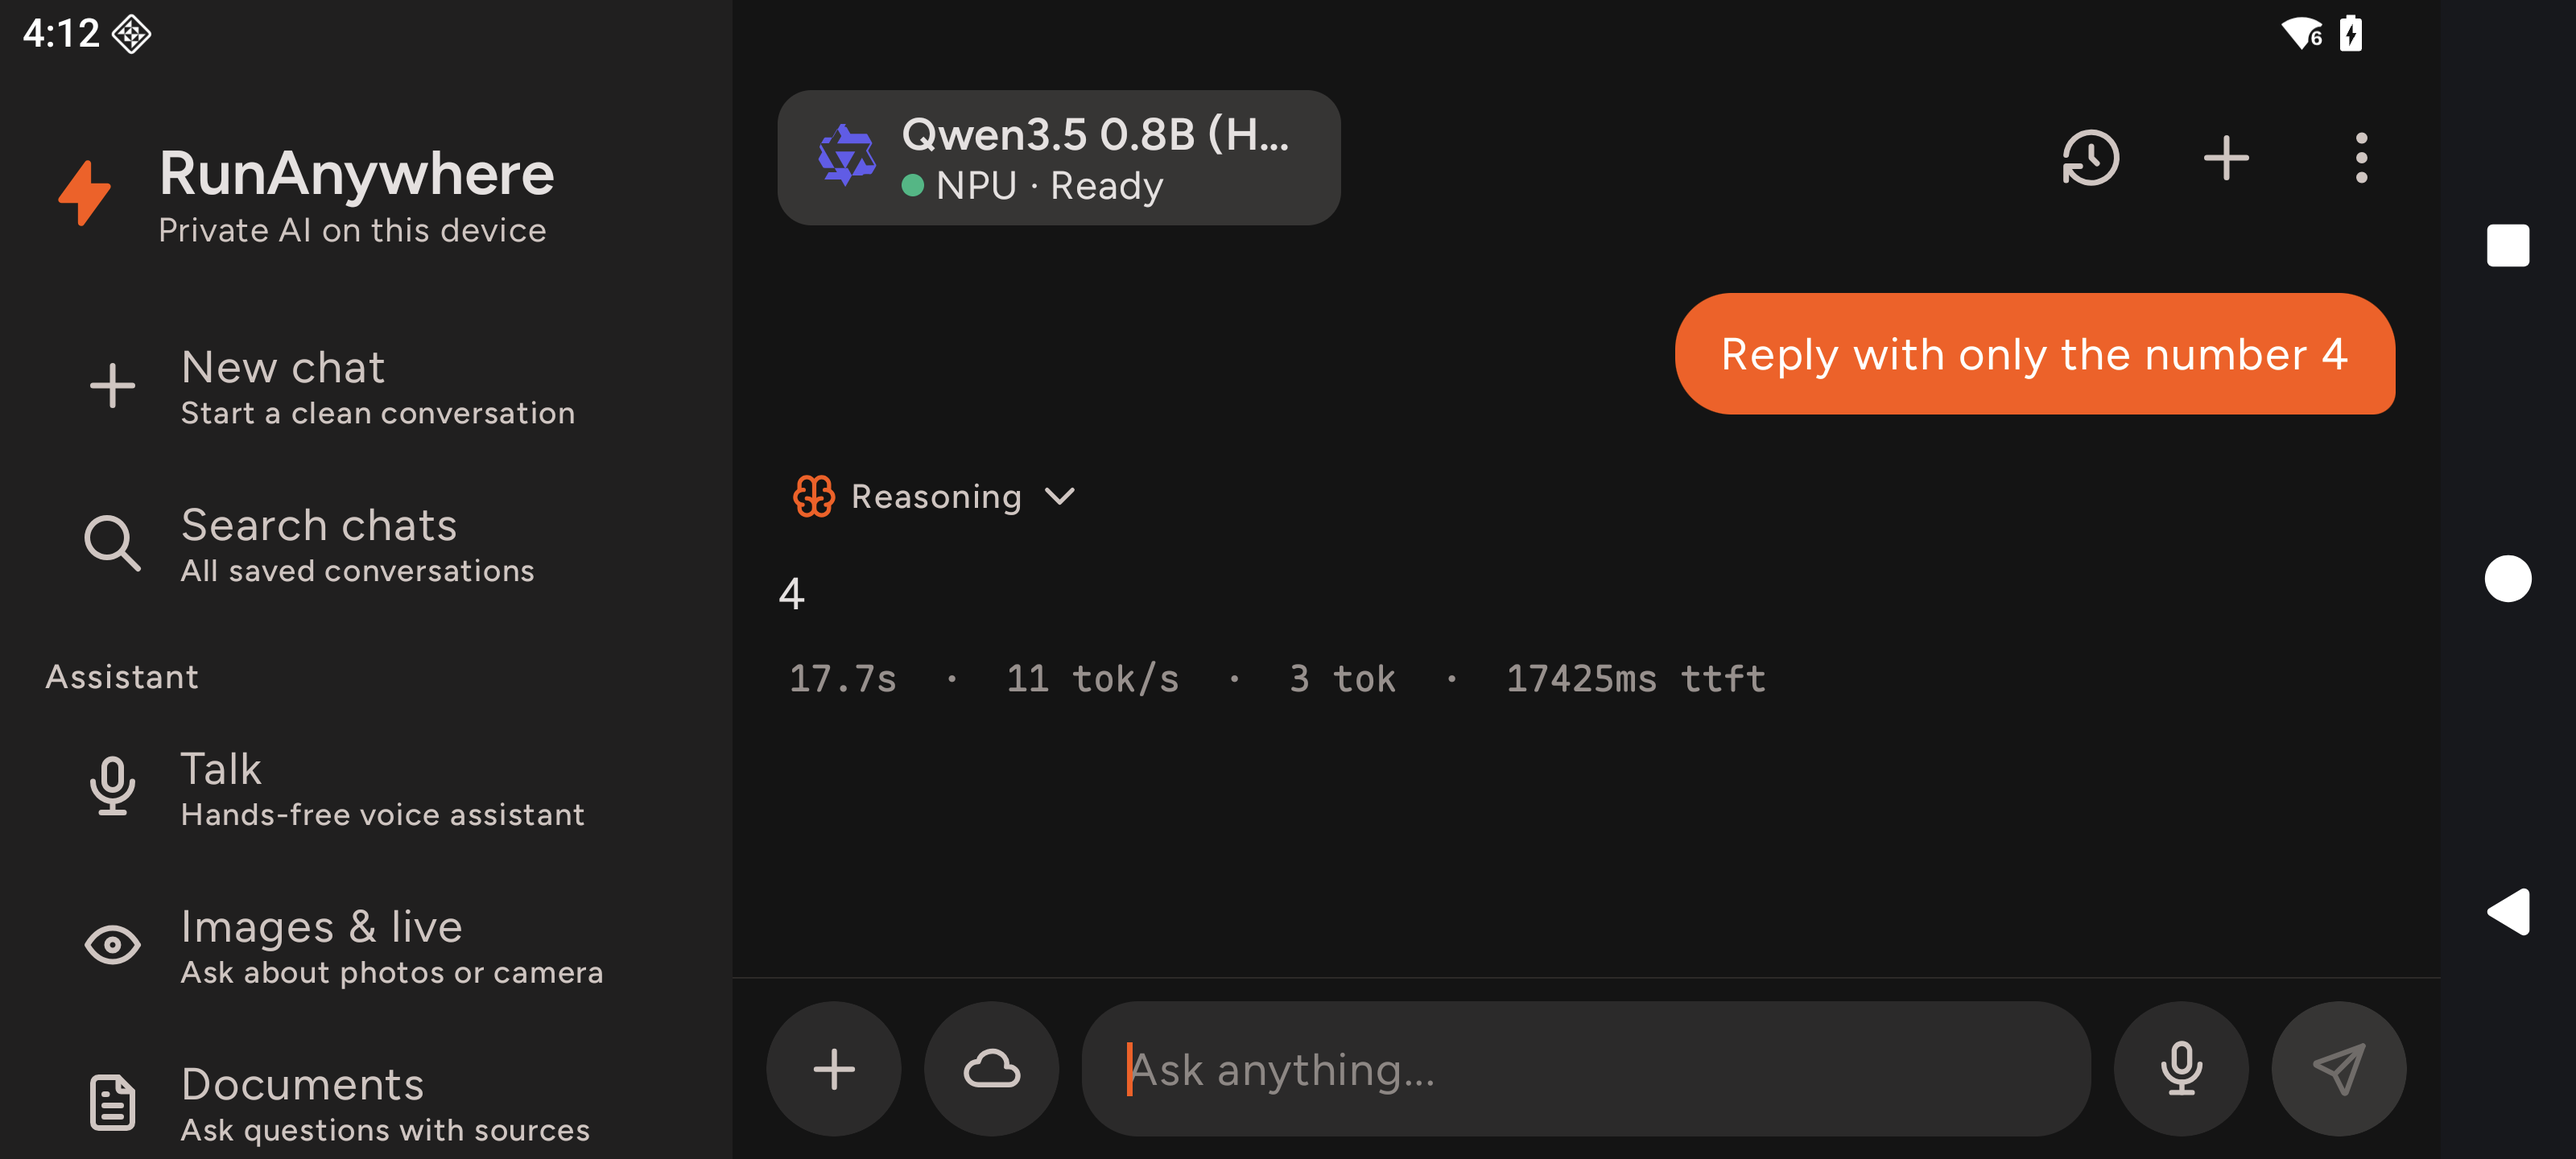
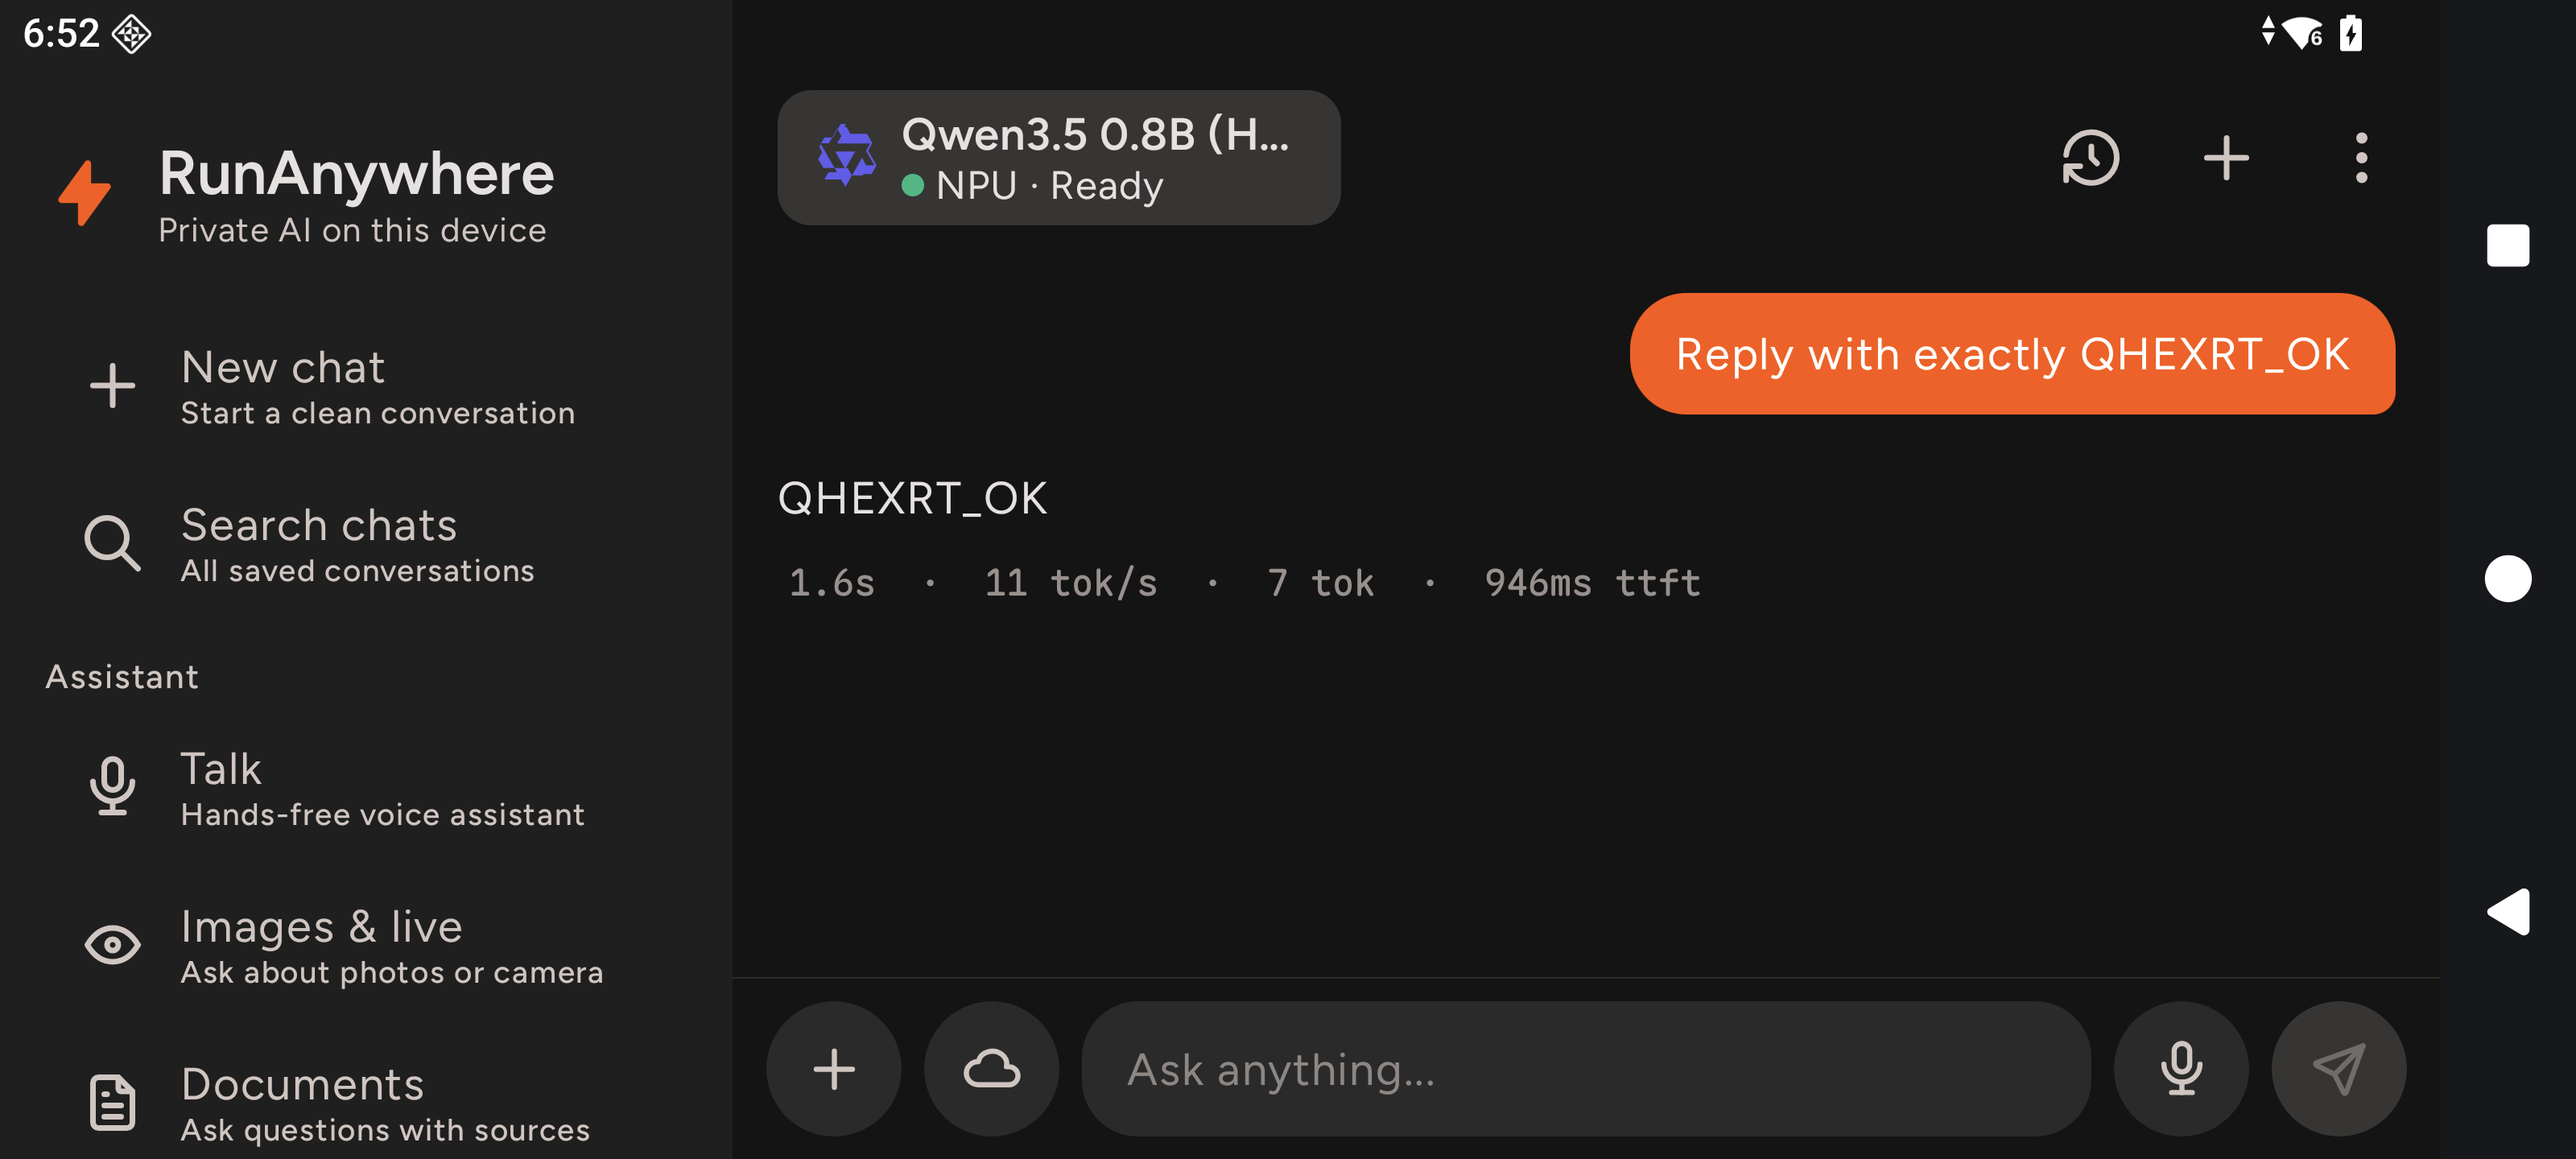
chore(android): refresh exact v81 Play captures

diff --git a/play-assets/README.md b/play-assets/README.md
@@ -8,8 +8,8 @@ on a Qualcomm SM8850 / Hexagon v81 device running Android 16.
 - Package: `com.runanywhere.runanywhereai`
 - Version: `0.1.5` (`versionCode` 14)
 - Latest installed APK SHA-256:
[1 lines of base64/hex data omitted]
-- Latest source checkpoint: `b67f6fef1c1b9cfc3354053d4bf1a911a23d8461`
[1 lines of base64/hex data omitted]
+- Latest source checkpoint: `564ea7eadd99a5e00e26c6dc87058203bda54742`
 - Capture dates: July 10–11, 2026
 - Raw device captures: `screenshots/v81/`
 - Play-ready phone captures: `play-console/phone/`
@@ -17,7 +17,8 @@ on a Qualcomm SM8850 / Hexagon v81 device running Android 16.
 Captures 01–05 came from the July 10 candidate
[1 lines of base64/hex data omitted]
 Captures 06–07 came from the latest July 11 candidate above after the shared
-C++ QHexRT catalog and landscape IME fixes. In both runs, the installed
+C++ QHexRT catalog, app-diagnostics telemetry bridge, and stable landscape IME
+validation. In both runs, the installed
 `base.apk` was pulled back from the device and matched the local artifact.
 
 ## Screenshot evidence
@@ -30,7 +31,7 @@ C++ QHexRT catalog and landscape IME fixes. In both runs, the installed
    identifies the increasing trend; the result is revealed automatically.
 5. Talk — Whisper, Qwen, Kokoro, and Silero VAD all report ready.
 6. QHexRT — public Qwen3.5 0.8B is loaded through QNN on Hexagon v81 and
-   returns exactly `4`, with TTFT, tokens, and throughput visible.
+   returns exactly `QHEXRT_OK`, with TTFT, tokens, and throughput visible.
 7. Web search — the model invokes `search_web` and cites the official
    `https://aihub.qualcomm.com/` URL while `Web & tools` is explicitly on.
 

diff --git a/play-assets/STORE_LISTING_DRAFT.md b/play-assets/STORE_LISTING_DRAFT.md
@@ -43,7 +43,7 @@ Initial Android release with on-device chat, vision, voice, document search, too
 ## Screenshot order and accessibility copy
 
 1. `01-home.png` — RunAnywhere home screen with Qwen3.5 0.8B loaded and NPU ready for local prompts.
-2. `06-qhexrt-v81.png` — Real Qwen3.5 generation on a Hexagon v81 NPU with visible latency and throughput metrics.
+2. `06-qhexrt-v81.png` — Real Qwen3.5 `QHEXRT_OK` generation on a Hexagon v81 NPU with visible latency and throughput metrics.
 3. `02-documents-rag.png` — Documents screen answering a Project Aurora question with one cited source.
 4. `07-web-search.png` — Qwen invoking `search_web` and citing the official Qualcomm AI Hub URL while Web & tools is enabled.
 5. `03-tools-calculate.png` — Local Qwen model using the calculator tool to answer 45 multiplied by 12.
